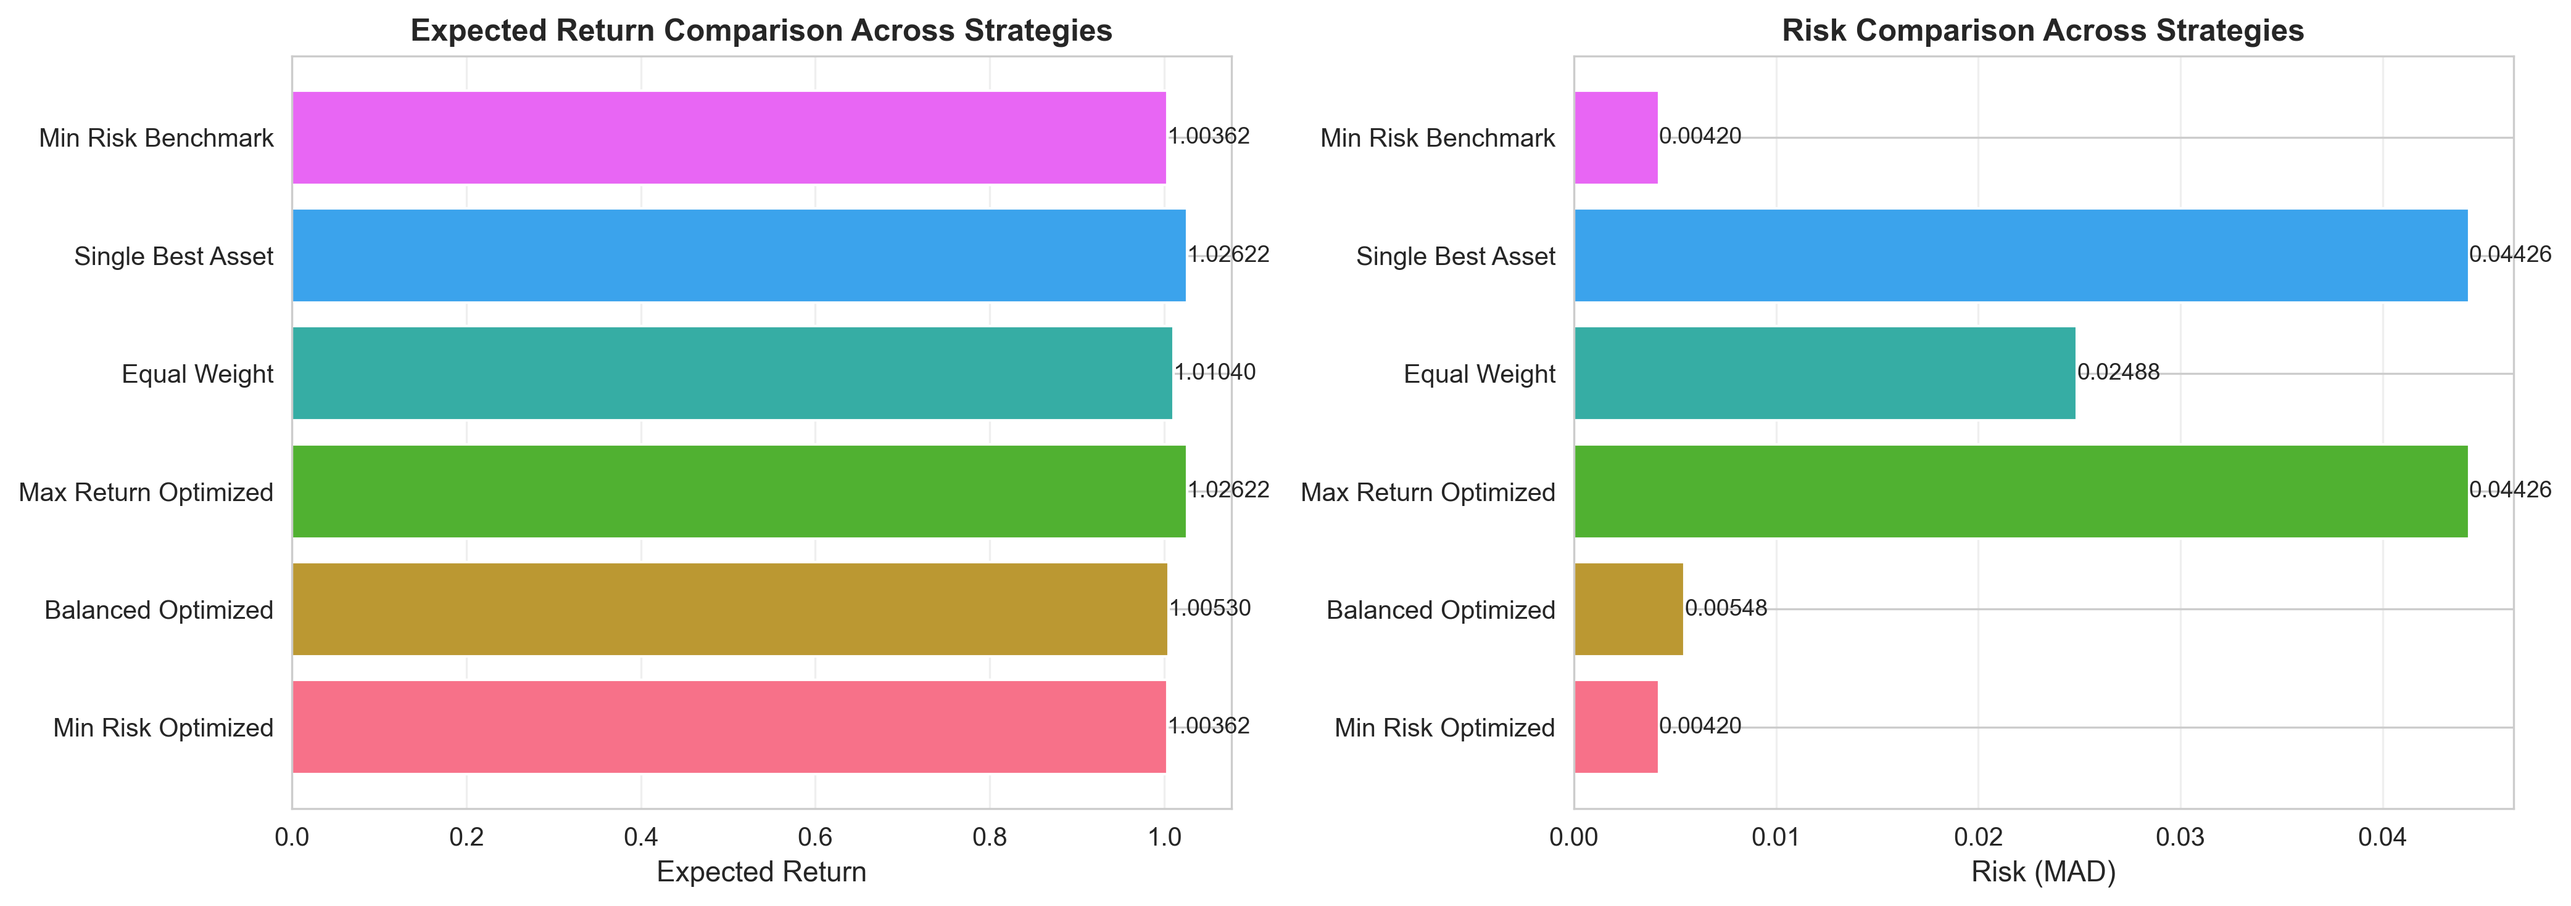
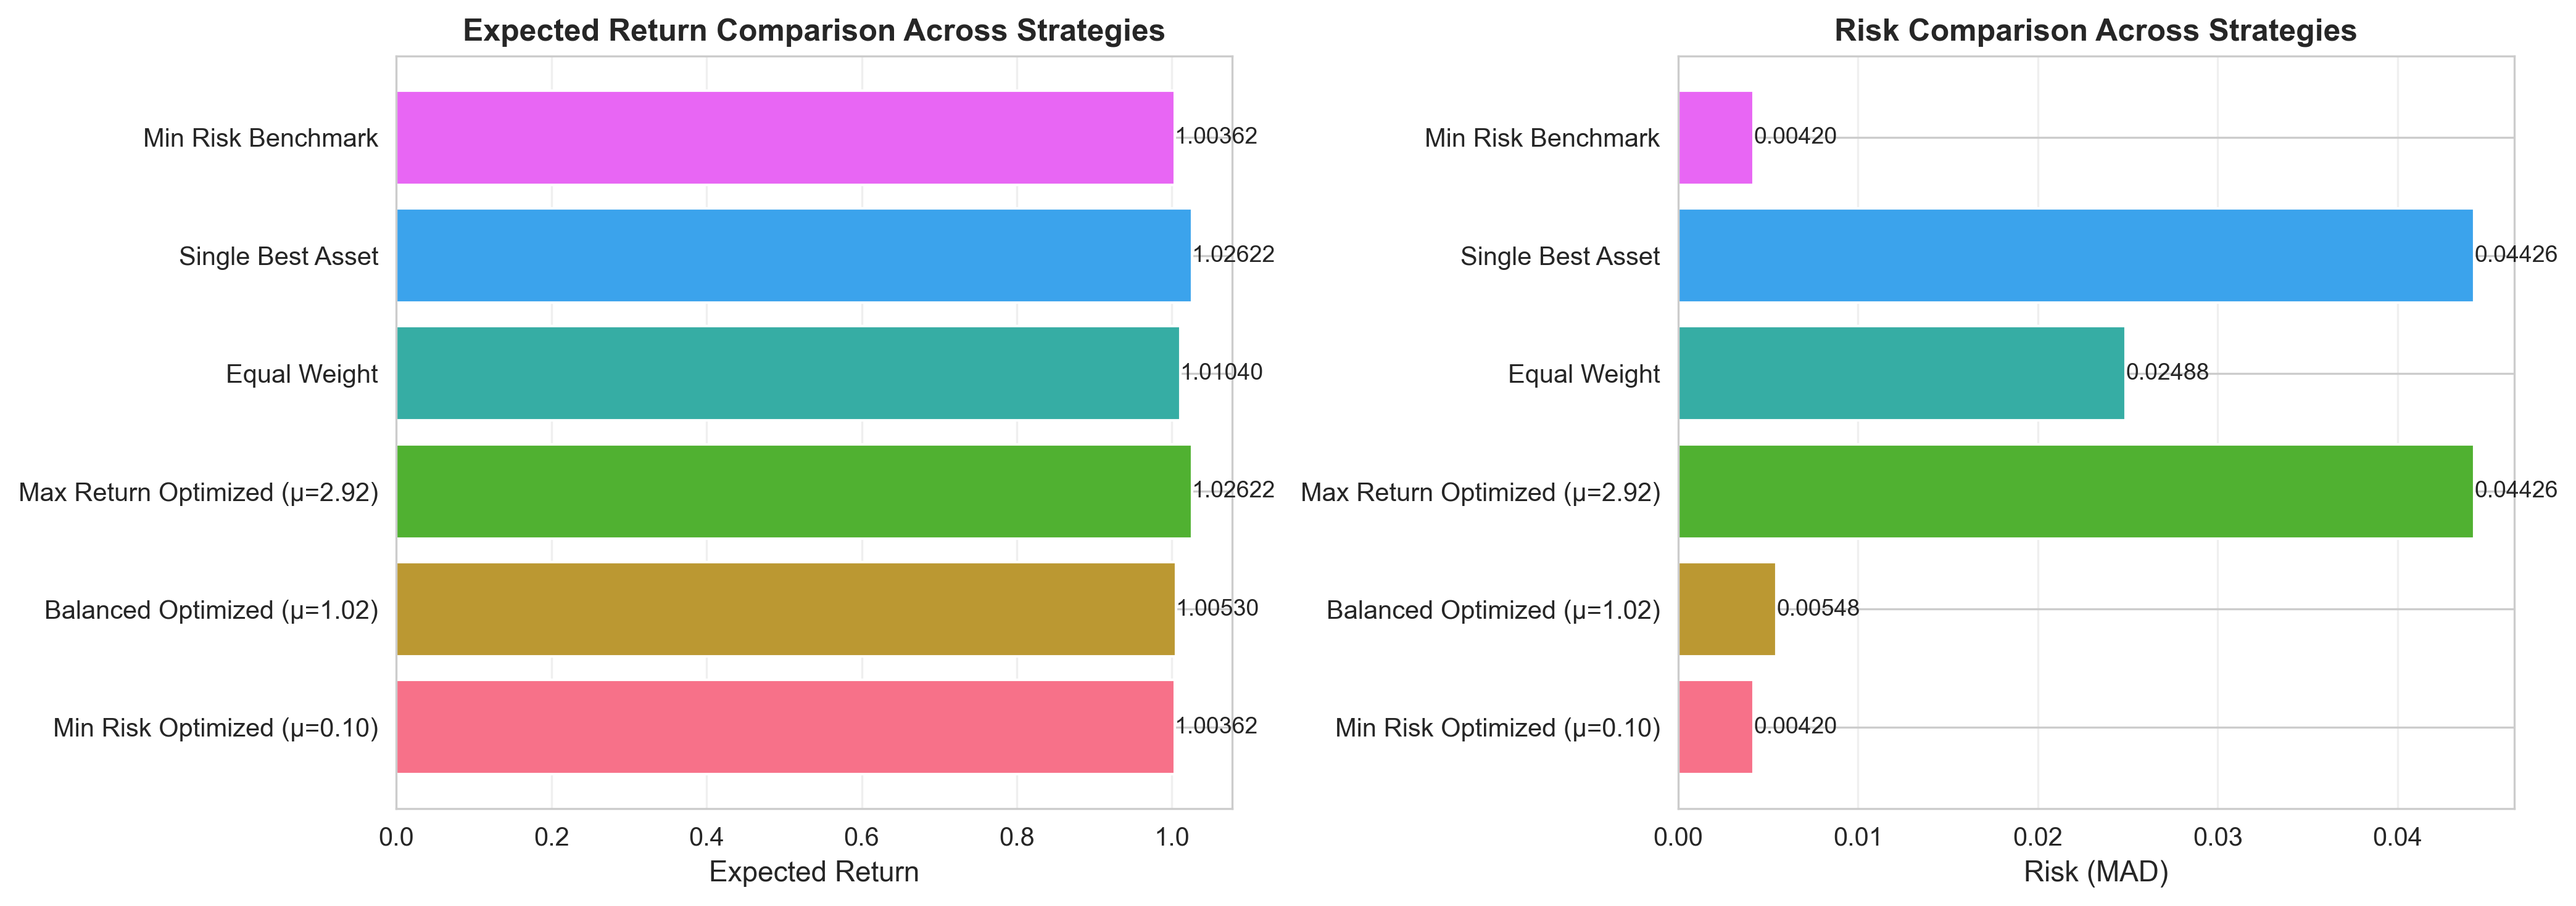
feat: 在策略对比图中添加μ值标注
- 优化策略名称现在包含对应的μ值
- 信息更完整，便于理解不同策略的参数设置
- 提升图表的专业性和可读性

diff --git a/src/visualization.py b/src/visualization.py
@@ -186,16 +186,21 @@ class PortfolioVisualizer:
         idx_max_return = self.results['expected_return'].idxmax()
         idx_balanced = (self.results['mu'] - 1.0).abs().idxmin()  # Balanced portfolio with mu~1
         
+        # Get mu values for optimized strategies
+        mu_min_risk = self.results.loc[idx_min_risk, 'mu']
+        mu_balanced = self.results.loc[idx_balanced, 'mu']
+        mu_max_return = self.results.loc[idx_max_return, 'mu']
+        
         strategies = {
-            'Min Risk Optimized': {
+            f'Min Risk Optimized (μ={mu_min_risk:.2f})': {
                 'return': self.results.loc[idx_min_risk, 'expected_return'],
                 'risk': self.results.loc[idx_min_risk, 'risk_mad']
             },
-            'Balanced Optimized': {
+            f'Balanced Optimized (μ={mu_balanced:.2f})': {
                 'return': self.results.loc[idx_balanced, 'expected_return'],
                 'risk': self.results.loc[idx_balanced, 'risk_mad']
             },
-            'Max Return Optimized': {
+            f'Max Return Optimized (μ={mu_max_return:.2f})': {
                 'return': self.results.loc[idx_max_return, 'expected_return'],
                 'risk': self.results.loc[idx_max_return, 'risk_mad']
             }
